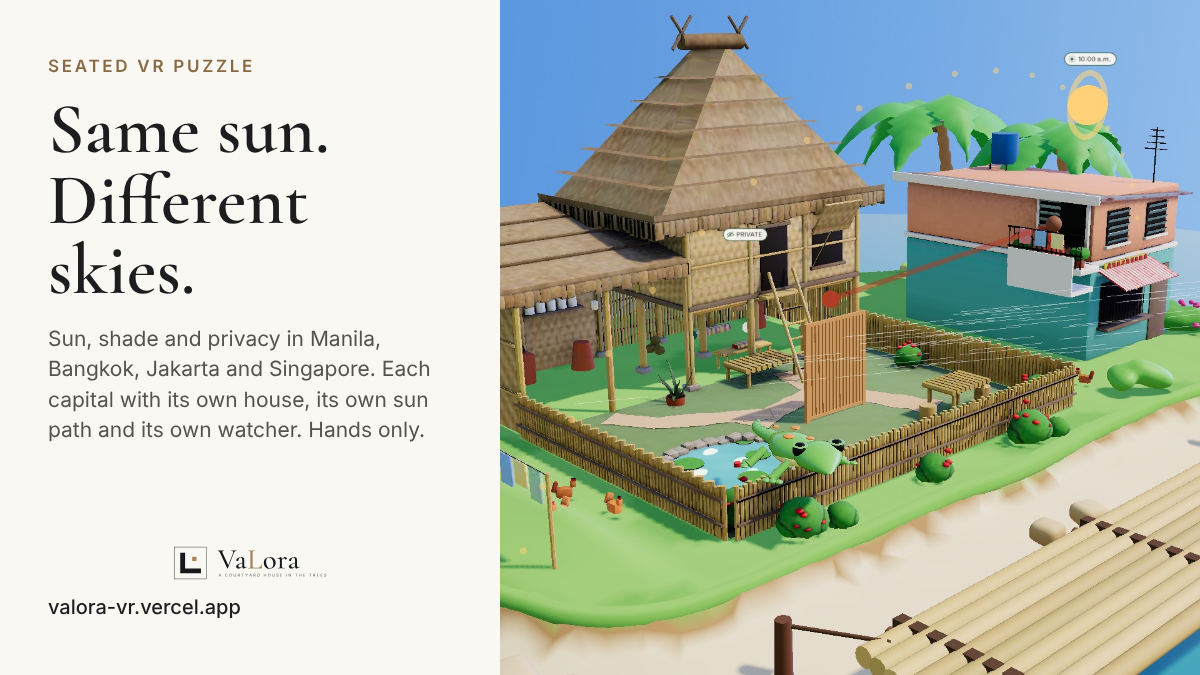
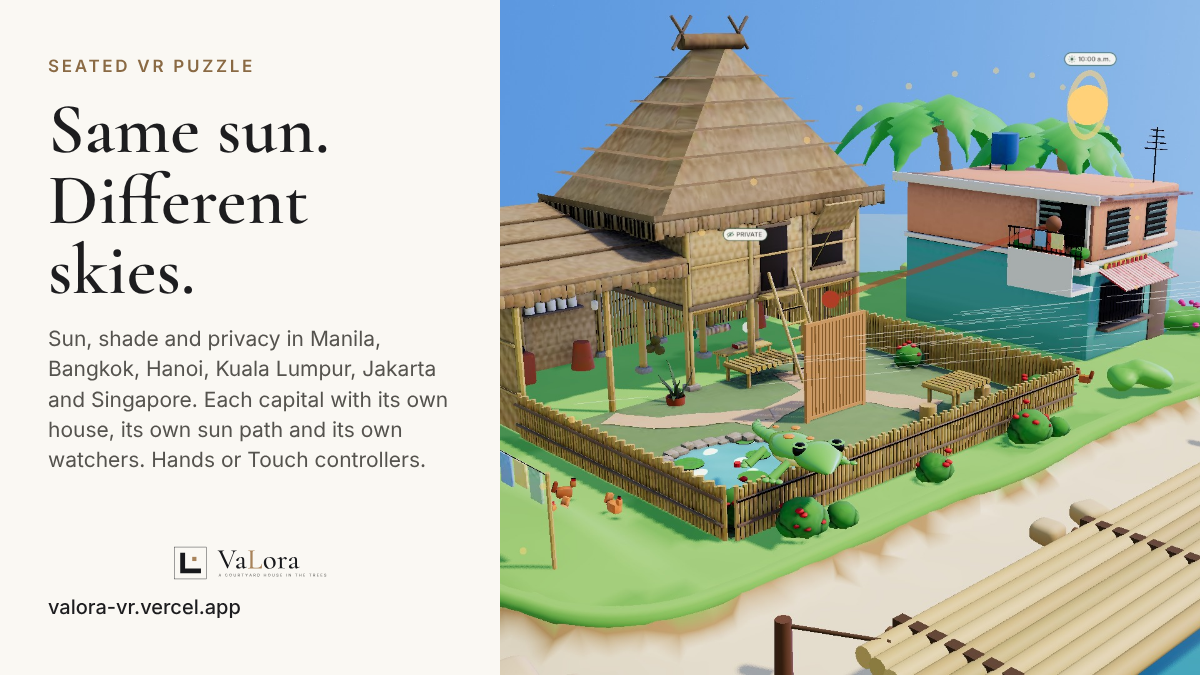
Social: competition entry landscape (1600x900), six-island mosaic; landscape post copy for six capitals
Claude-Session: https://claude.ai/code/session_01P8KZDNwWSdq4BHwjuxWx2d

Changed region(s): [[0.0308, 0.5289, 0.37, 0.7156]]

diff --git a/scripts/social/project/Entry.dc.html b/scripts/social/project/Entry.dc.html
@@ -1,0 +1,66 @@
+<!doctype html>
+<html lang="en">
+<head>
+<meta charset="utf-8">
+<title>Competition entry</title>
+<script src="./support.js"></script>
+</head>
+<body>
+<x-dc>
+<helmet>
+<link rel="preconnect" href="https://fonts.googleapis.com"><link rel="preconnect" href="https://fonts.gstatic.com" crossorigin><link href="https://fonts.googleapis.com/css2?family=Cormorant+Garamond:wght@500;600;700&amp;family=Inter:wght@400;500;600&amp;display=swap" rel="stylesheet">
+<style>
+body{margin:0}
+a{color:#8a6a44}a:hover{color:#1d1d1f}
+</style>
+</helmet>
+<div style="width: 1600px; height: 900px; box-sizing: border-box; position: relative; overflow: hidden; background: #faf8f3; color: #1d1d1f; font-family: Inter, system-ui, sans-serif">
+
+<div style="position: absolute; left: 0; top: 0; width: 620px; height: 900px; box-sizing: border-box; padding: 60px 52px 56px 64px; display: flex; flex-direction: column; justify-content: space-between">
+<div style="display: flex; flex-direction: column; gap: 22px">
+<div style="display: flex; flex-direction: column; gap: 8px">
+<div style="font-family: Inter, system-ui, sans-serif; font-size: 16px; font-weight: 600; letter-spacing: 0.16em; text-transform: uppercase; color: #8a6a44">Our entry</div>
+<div style="font-size: 21px; font-weight: 600">Meta VR Start Developer Competition 2026</div>
+</div>
+<div style="display: flex"><img src="/_blob/0ece1c904171fd1e6f3a17af59404496" alt="VaLora" style="height: 46px; width: auto; display: block"></div>
+<h1 style="margin: 0; font-family: 'Cormorant Garamond', Georgia, serif; font-weight: 600; font-size: 74px; line-height: 0.96">Let the sun in.<br>Keep the<br>watchers out.</h1>
+<p style="margin: 0; font-size: 20px; line-height: 1.5; color: #55534e">A seated VR puzzle for Meta Quest across six Southeast Asian capitals, each with its own house, its own sun path and its own watchers. One player. The two watchers are the sun, and whoever looks in.</p>
+<div style="display: flex; flex-wrap: wrap; gap: 10px"><div style="padding: 9px 16px; border: 1px solid #cfc7b8; border-radius: 999px; font-size: 17px; font-weight: 500; white-space: nowrap">18 levels</div><div style="padding: 9px 16px; border: 1px solid #cfc7b8; border-radius: 999px; font-size: 17px; font-weight: 500; white-space: nowrap">6 capitals</div><div style="padding: 9px 16px; border: 1px solid #cfc7b8; border-radius: 999px; font-size: 17px; font-weight: 500; white-space: nowrap">Hands or Touch controllers</div><div style="padding: 9px 16px; border: 1px solid #cfc7b8; border-radius: 999px; font-size: 17px; font-weight: 500; white-space: nowrap">WebXR · Quest Browser</div></div>
+</div>
+<div style="display: flex; flex-direction: column; gap: 14px; padding-top: 22px; border-top: 1px solid #ddd5c6">
+<div style="display: flex; align-items: center; gap: 12px"><svg aria-hidden="true" width="18" height="18" viewBox="0 0 24 24" fill="none" stroke="#8a6a44" stroke-width="2" stroke-linecap="round" stroke-linejoin="round"><path d="M7 17L17 7"></path><path d="M8 7h9v9"></path></svg><span style="font-size: 15px; font-weight: 600; letter-spacing: 0.12em; text-transform: uppercase; color: #8a6a44; width: 72px">Play</span><span style="font-size: 21px; font-weight: 500; font-feature-settings: 'calt' 0, 'liga' 0, 'cv05' 1">valora-vr.vercel.app</span></div>
+<div style="display: flex; align-items: center; gap: 12px"><svg aria-hidden="true" width="18" height="18" viewBox="0 0 24 24" fill="none" stroke="#8a6a44" stroke-width="2" stroke-linecap="round" stroke-linejoin="round"><circle cx="12" cy="12" r="10"></circle><polygon points="10,8 16,12 10,16"></polygon></svg><span style="font-size: 15px; font-weight: 600; letter-spacing: 0.12em; text-transform: uppercase; color: #8a6a44; width: 72px">Demo</span><span style="font-size: 21px; font-weight: 500; font-feature-settings: 'calt' 0, 'liga' 0, 'cv05' 1">youtu.be/BQlZkN5x4PU</span></div>
+</div>
+</div>
+<div style="position: absolute; left: 620px; top: 28px; width: 952px; height: 844px; display: grid; grid-template-columns: 1fr 1fr; grid-template-rows: 1fr 1fr 1fr; gap: 16px">
+<div style="position: relative; border-radius: 20px; overflow: hidden; background: #e9e2d4">
+<img src="/_blob/ed85871313395557a13e998326c0ae1f" alt="The Manila island" style="display: block; object-fit: cover; position: absolute; left: 0; top: 0; width: 100%; height: 100%">
+<div style="position: absolute; left: 14px; bottom: 14px; display: flex; align-items: baseline; gap: 8px; padding: 9px 16px; border-radius: 999px; background: #faf8f3; font-size: 17px; line-height: 1"><span style="font-weight: 600">Manila</span><span style="color: #55534e">typhoon wind</span></div>
+</div><div style="position: relative; border-radius: 20px; overflow: hidden; background: #e9e2d4">
+<img src="/_blob/42b0f2cbb201b75fe57e5233e4036d95" alt="The Bangkok island" style="display: block; object-fit: cover; position: absolute; left: 0; top: 0; width: 100%; height: 100%">
+<div style="position: absolute; left: 14px; bottom: 14px; display: flex; align-items: baseline; gap: 8px; padding: 9px 16px; border-radius: 999px; background: #faf8f3; font-size: 17px; line-height: 1"><span style="font-weight: 600">Bangkok</span><span style="color: #55534e">long-tail boats</span></div>
+</div><div style="position: relative; border-radius: 20px; overflow: hidden; background: #e9e2d4">
+<img src="/_blob/13f7d4bfc803f9e328791551c81f4585" alt="The Hanoi island" style="display: block; object-fit: cover; position: absolute; left: 0; top: 0; width: 100%; height: 100%">
+<div style="position: absolute; left: 14px; bottom: 14px; display: flex; align-items: baseline; gap: 8px; padding: 9px 16px; border-radius: 999px; background: #faf8f3; font-size: 17px; line-height: 1"><span style="font-weight: 600">Hanoi</span><span style="color: #55534e">motorbikes in the lane</span></div>
+</div><div style="position: relative; border-radius: 20px; overflow: hidden; background: #e9e2d4">
+<img src="/_blob/9db8885d784c632a451fd73ac1b0c7c5" alt="The Kuala Lumpur island" style="display: block; object-fit: cover; position: absolute; left: 0; top: 0; width: 100%; height: 100%">
+<div style="position: absolute; left: 14px; bottom: 14px; display: flex; align-items: baseline; gap: 8px; padding: 9px 16px; border-radius: 999px; background: #faf8f3; font-size: 17px; line-height: 1"><span style="font-weight: 600">Kuala Lumpur</span><span style="color: #55534e">condo towers</span></div>
+</div><div style="position: relative; border-radius: 20px; overflow: hidden; background: #e9e2d4">
+<img src="/_blob/d63485fba1969213b89cf5229129c184" alt="The Jakarta island" style="display: block; object-fit: cover; position: absolute; left: 0; top: 0; width: 100%; height: 100%">
+<div style="position: absolute; left: 14px; bottom: 14px; display: flex; align-items: baseline; gap: 8px; padding: 9px 16px; border-radius: 999px; background: #faf8f3; font-size: 17px; line-height: 1"><span style="font-weight: 600">Jakarta</span><span style="color: #55534e">monsoon rain</span></div>
+</div><div style="position: relative; border-radius: 20px; overflow: hidden; background: #e9e2d4">
+<img src="/_blob/c3a4b607bc0e746a4bb2939936877878" alt="The Singapore island" style="display: block; object-fit: cover; position: absolute; left: 0; top: 0; width: 100%; height: 100%">
+<div style="position: absolute; left: 14px; bottom: 14px; display: flex; align-items: baseline; gap: 8px; padding: 9px 16px; border-radius: 999px; background: #faf8f3; font-size: 17px; line-height: 1"><span style="font-weight: 600">Singapore</span><span style="color: #55534e">the high-rise</span></div>
+</div>
+</div>
+</div>
+</x-dc>
+<script type="text/x-dc" data-dc-script data-props='{"$preview":{"width":1600,"height":900}}'>
+class Component extends DCLogic {
+renderVals() {
+return {};
+}
+}
+</script>
+</body>
+</html>

diff --git a/scripts/social/project/Landscape.dc.html b/scripts/social/project/Landscape.dc.html
@@ -21,7 +21,7 @@ a{color:#8a6a44}a:hover{color:#1d1d1f}
 <div style="display: flex; flex-direction: column; gap: 18px">
 <div style="font-family: Inter, system-ui, sans-serif; font-size: 17px; font-weight: 600; letter-spacing: 0.16em; text-transform: uppercase; color: #8a6a44">Seated VR puzzle</div>
 <h1 style="margin: 0; font-family: 'Cormorant Garamond', Georgia, serif; font-weight: 600; font-size: 72px; line-height: 0.98">Same sun.<br>Different skies.</h1>
-<p style="margin: 0; font-size: 21px; line-height: 1.45; color: #55534e">Sun, shade and privacy in Manila, Bangkok, Jakarta and Singapore. Each capital with its own house, its own sun path and its own watcher. Hands only.</p>
+<p style="margin: 0; font-size: 21px; line-height: 1.45; color: #55534e">Sun, shade and privacy in Manila, Bangkok, Hanoi, Kuala Lumpur, Jakarta and Singapore. Each capital with its own house, its own sun path and its own watchers. Hands or Touch controllers.</p>
 </div>
 <div style="display: flex; flex-direction: column; gap: 14px">
 <img src="/_blob/0ece1c904171fd1e6f3a17af59404496" alt="VaLora" style="height: 36px; width: auto; display: block">

diff --git a/scripts/social/make.py b/scripts/social/make.py
@@ -138,7 +138,7 @@ boards['Landscape.dc.html'] = (1200, 675, 'Landscape post (LinkedIn, X)', page('
 <div style="display: flex; flex-direction: column; gap: 18px">
 {kicker('Seated VR puzzle', 17)}
 <h1 style="margin: 0; font-family: {SERIF}; font-weight: 600; font-size: 72px; line-height: 0.98">Same sun.<br>Different skies.</h1>
-<p style="margin: 0; font-size: 21px; line-height: 1.45; color: {MUTED}">Sun, shade and privacy in Manila, Bangkok, Jakarta and Singapore. Each capital with its own house, its own sun path and its own watcher. Hands only.</p>
+<p style="margin: 0; font-size: 21px; line-height: 1.45; color: {MUTED}">Sun, shade and privacy in Manila, Bangkok, Hanoi, Kuala Lumpur, Jakarta and Singapore. Each capital with its own house, its own sun path and its own watchers. Hands or Touch controllers.</p>
 </div>
 <div style="display: flex; flex-direction: column; gap: 14px">
 {logo(36)}
@@ -192,12 +192,45 @@ boards['HowItPlays.dc.html'] = (1080, 1350, 'Carousel: how it plays', page('How 
 {footer()}
 </div>'''))
 
+# 10. Competition entry, landscape (X, LinkedIn, YouTube community, Devpost): the six islands as a mosaic
+DEMO = 'youtu.be/BQlZkN5x4PU'
+TILES = [('ph', 'Manila', 'typhoon wind'), ('th', 'Bangkok', 'long-tail boats'), ('vn', 'Hanoi', 'motorbikes in the lane'),
+         ('my', 'Kuala Lumpur', 'condo towers'), ('id', 'Jakarta', 'monsoon rain'), ('sg', 'Singapore', 'the high-rise')]
+tiles = ''.join(f'''<div style="position: relative; border-radius: 20px; overflow: hidden; background: #e9e2d4">
+{photo('hero_' + c, f'The {city} island', 'position: absolute; left: 0; top: 0; width: 100%; height: 100%')}
+<div style="position: absolute; left: 14px; bottom: 14px; display: flex; align-items: baseline; gap: 8px; padding: 9px 16px; border-radius: 999px; background: {PAPER}; font-size: 17px; line-height: 1"><span style="font-weight: 600">{city}</span><span style="color: {MUTED}">{twist}</span></div>
+</div>''' for c, city, twist in TILES)
+pill = lambda t: f'<div style="padding: 9px 16px; border: 1px solid #cfc7b8; border-radius: 999px; font-size: 17px; font-weight: 500; white-space: nowrap">{t}</div>'
+ico_play = f'<svg aria-hidden="true" width="18" height="18" viewBox="0 0 24 24" fill="none" stroke="{BRONZE}" stroke-width="2" stroke-linecap="round" stroke-linejoin="round"><circle cx="12" cy="12" r="10"></circle><polygon points="10,8 16,12 10,16"></polygon></svg>'
+ico_link = f'<svg aria-hidden="true" width="18" height="18" viewBox="0 0 24 24" fill="none" stroke="{BRONZE}" stroke-width="2" stroke-linecap="round" stroke-linejoin="round"><path d="M7 17L17 7"></path><path d="M8 7h9v9"></path></svg>'
+boards['Entry.dc.html'] = (1600, 900, 'Competition entry (landscape)', page('Competition entry', 1600, 900, f'''
+<div style="position: absolute; left: 0; top: 0; width: 620px; height: 900px; box-sizing: border-box; padding: 60px 52px 56px 64px; display: flex; flex-direction: column; justify-content: space-between">
+<div style="display: flex; flex-direction: column; gap: 22px">
+<div style="display: flex; flex-direction: column; gap: 8px">
+{kicker('Our entry', 16)}
+<div style="font-size: 21px; font-weight: 600">Meta VR Start Developer Competition 2026</div>
+</div>
+<div style="display: flex">{logo(46)}</div>
+<h1 style="margin: 0; font-family: {SERIF}; font-weight: 600; font-size: 74px; line-height: 0.96">Let the sun in.<br>Keep the<br>watchers out.</h1>
+<p style="margin: 0; font-size: 20px; line-height: 1.5; color: {MUTED}">A seated VR puzzle for Meta Quest across six Southeast Asian capitals, each with its own house, its own sun path and its own watchers. One player. The two watchers are the sun, and whoever looks in.</p>
+<div style="display: flex; flex-wrap: wrap; gap: 10px">{pill('18 levels')}{pill('6 capitals')}{pill('Hands or Touch controllers')}{pill('WebXR · Quest Browser')}</div>
+</div>
+<div style="display: flex; flex-direction: column; gap: 14px; padding-top: 22px; border-top: 1px solid #ddd5c6">
+<div style="display: flex; align-items: center; gap: 12px">{ico_link}<span style="font-size: 15px; font-weight: 600; letter-spacing: 0.12em; text-transform: uppercase; color: {BRONZE}; width: 72px">Play</span><span style="font-size: 21px; font-weight: 500; font-feature-settings: 'calt' 0, 'liga' 0, 'cv05' 1">{URL}</span></div>
+<div style="display: flex; align-items: center; gap: 12px">{ico_play}<span style="font-size: 15px; font-weight: 600; letter-spacing: 0.12em; text-transform: uppercase; color: {BRONZE}; width: 72px">Demo</span><span style="font-size: 21px; font-weight: 500; font-feature-settings: 'calt' 0, 'liga' 0, 'cv05' 1">{DEMO}</span></div>
+</div>
+</div>
+<div style="position: absolute; left: 620px; top: 28px; width: 952px; height: 844px; display: grid; grid-template-columns: 1fr 1fr; grid-template-rows: 1fr 1fr 1fr; gap: 16px">
+{tiles}
+</div>'''))
+
 for path, (w, h, title, html) in boards.items():
     open(os.path.join(P, path), 'w').write(html)
 
+
 # canvas.json: social sizes grouped in rows
 layout = [
-    ['Main.dc.html', 'Landscape.dc.html'],
+    ['Main.dc.html', 'Landscape.dc.html', 'Entry.dc.html'],
     ['Islands.dc.html', 'HowItPlays.dc.html', 'Story.dc.html'],
     ['Country-ph.dc.html', 'Country-th.dc.html', 'Country-id.dc.html', 'Country-sg.dc.html'],
 ]
@@ -214,14 +247,14 @@ for row in layout:
     y += rh + 360
 canvas = {
     'v': 3,
-    'createdOnFiles': {'v': 1, 'at': datetime.datetime.now(datetime.timezone.utc).strftime('%Y-%m-%dT%H:%M:%SZ')},
+    'createdOnFiles': {'v': 1, 'at': '2026-11-08T10:23:51Z'},  # when the canvas was first made
     'title': 'VaLora social media graphics',
     'launch': {'view': 'canvas'},
     'pages': [],
     'boards': bx,
     'order': [p for row in layout for p in row],
     'notes': {
-        'row1': {'x': 0, 'y': -260, 'text': 'Launch posts', 'kind': 'title1', 'maxW': 2360},
+        'row1': {'x': 0, 'y': -260, 'text': 'Launch posts and the competition entry', 'kind': 'title1', 'maxW': 4040},
         'row2': {'x': 0, 'y': bx['Islands.dc.html']['y'] - 260, 'text': 'Four islands, how it plays, story', 'kind': 'title1', 'maxW': 3400},
         'row3': {'x': 0, 'y': bx['Country-ph.dc.html']['y'] - 260, 'text': 'Carousel: one slide per country', 'kind': 'title1', 'maxW': 4560},
     },

diff --git a/docs/SOCIAL.md b/docs/SOCIAL.md
@@ -1,6 +1,6 @@
 # Social media graphics
 
-Nine ready-to-post images in [`docs/social/`](social/), made from real renders of the game. Editable versions live on the "VaLora social media graphics" design canvas in Claude, where any wording can be retyped.
+Ten ready-to-post images in [`docs/social/`](social/), made from real renders of the game. Editable versions live on the "VaLora social media graphics" design canvas in Claude, where any wording can be retyped.
 
 | File | Size | Use |
 |---|---|---|
@@ -9,7 +9,8 @@ Nine ready-to-post images in [`docs/social/`](social/), made from real renders o
 | `valora-howitplays-1080x1350.png` | 1080×1350 | Choose a place, place pieces, drag the sun, live the day |
 | `valora-country-ph/th/id/sg-1080x1350.png` | 1080×1350 | Carousel: one slide per country with its house, watcher and levels |
 | `valora-story-1080x1920.png` | 1080×1920 | Story or Reel cover with the link |
-| `valora-landscape-1200x675.png` | 1200×675 | LinkedIn and X |
+| `valora-landscape-1200x675.png` | 1200×675 | LinkedIn and X: Manila, six capitals |
+| `valora-entry-1600x900.png` | 1600×900 | The competition entry: "Let the sun in. Keep the watchers out.", the six islands as a mosaic with each watcher, 18 levels, hands or Touch controllers, the play link and the YouTube demo. For X, LinkedIn, YouTube community posts and the Devpost gallery |
 
 | Instagram carousel order | |
 |---|---|

diff --git a/README.md b/README.md
@@ -159,7 +159,7 @@ Use `ph`, `th`, `vn`, `my`, `id` or `sg`. Social graphics: [SOCIAL](docs/SOCIAL.
 | [ART](docs/ART.md) | The storybook diorama look, each country's island, the Blender pipeline, the rule that art never contradicts the checks |
 | [BRAND](docs/BRAND.md) | Name, the VaLora story, type, colour, sound |
 | [VIDEO](docs/VIDEO.md) | The 2:40 demo, trailer and showcase: shot lists, voice-over, the frame-exact capture pipeline |
-| [SOCIAL](docs/SOCIAL.md) | Nine ready-to-post graphics (square, 4:5 carousel, story, landscape) and how they are made |
+| [SOCIAL](docs/SOCIAL.md) | Ten ready-to-post graphics (square, 4:5 carousel, story, landscape, the competition entry) and how they are made |
 | [SUBMISSION](docs/SUBMISSION.md) | Draft answers for the Devpost form |
 | [ROADMAP](docs/ROADMAP.md) | Milestones to the deadline |
 | [PRIVACY](docs/PRIVACY.md) | What the app stores (progress in the browser only) |
